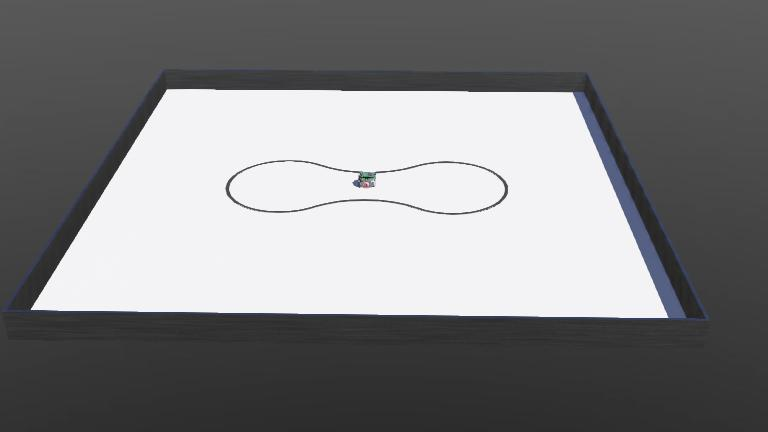
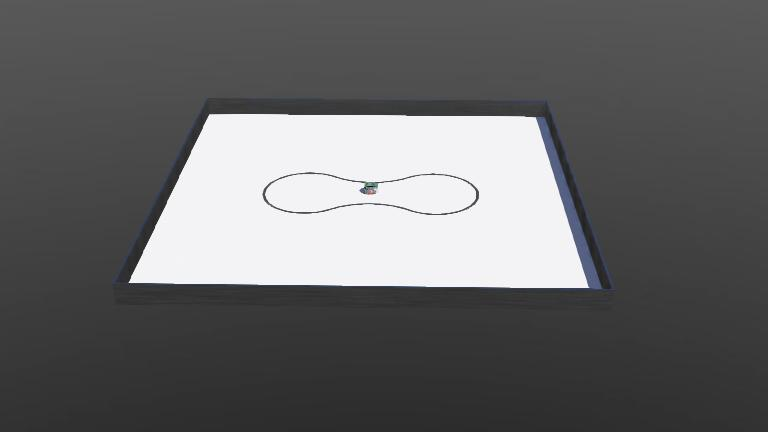
Create Controller

diff --git a/controllers/line_follower_controller/line_follower_controller.py b/controllers/line_follower_controller/line_follower_controller.py
@@ -1,0 +1,35 @@
+from controller import Robot
+
+def run_robot(robot):
+
+    
+    # get the time step of the current world.
+    timestep = 32
+    max_speed = 6.28 # angular_velocity
+    
+    # create motor instances.
+    left_motor = robot.getDevice('left wheel motor')
+    right_motor = robot.getDevice('right wheel motor')
+    
+    left_motor.setPosition(float('inf'))
+    right_motor.setPosition(float('inf'))
+    
+    left_motor.setVelocity(0.0)
+    right_motor.setVelocity(0.0)
+    
+    # Main loop, Step simulation
+    while robot.step(timestep) != -1:
+        
+        left_speed = max_speed
+        right_speed = max_speed
+
+        left_motor.setVelocity(left_speed)
+        right_motor.setVelocity(right_speed)
+
+if __name__ == "__main__":
+    
+    
+    # create the Robot instance.
+    robot = Robot()
+    run_robot(robot)
+    
